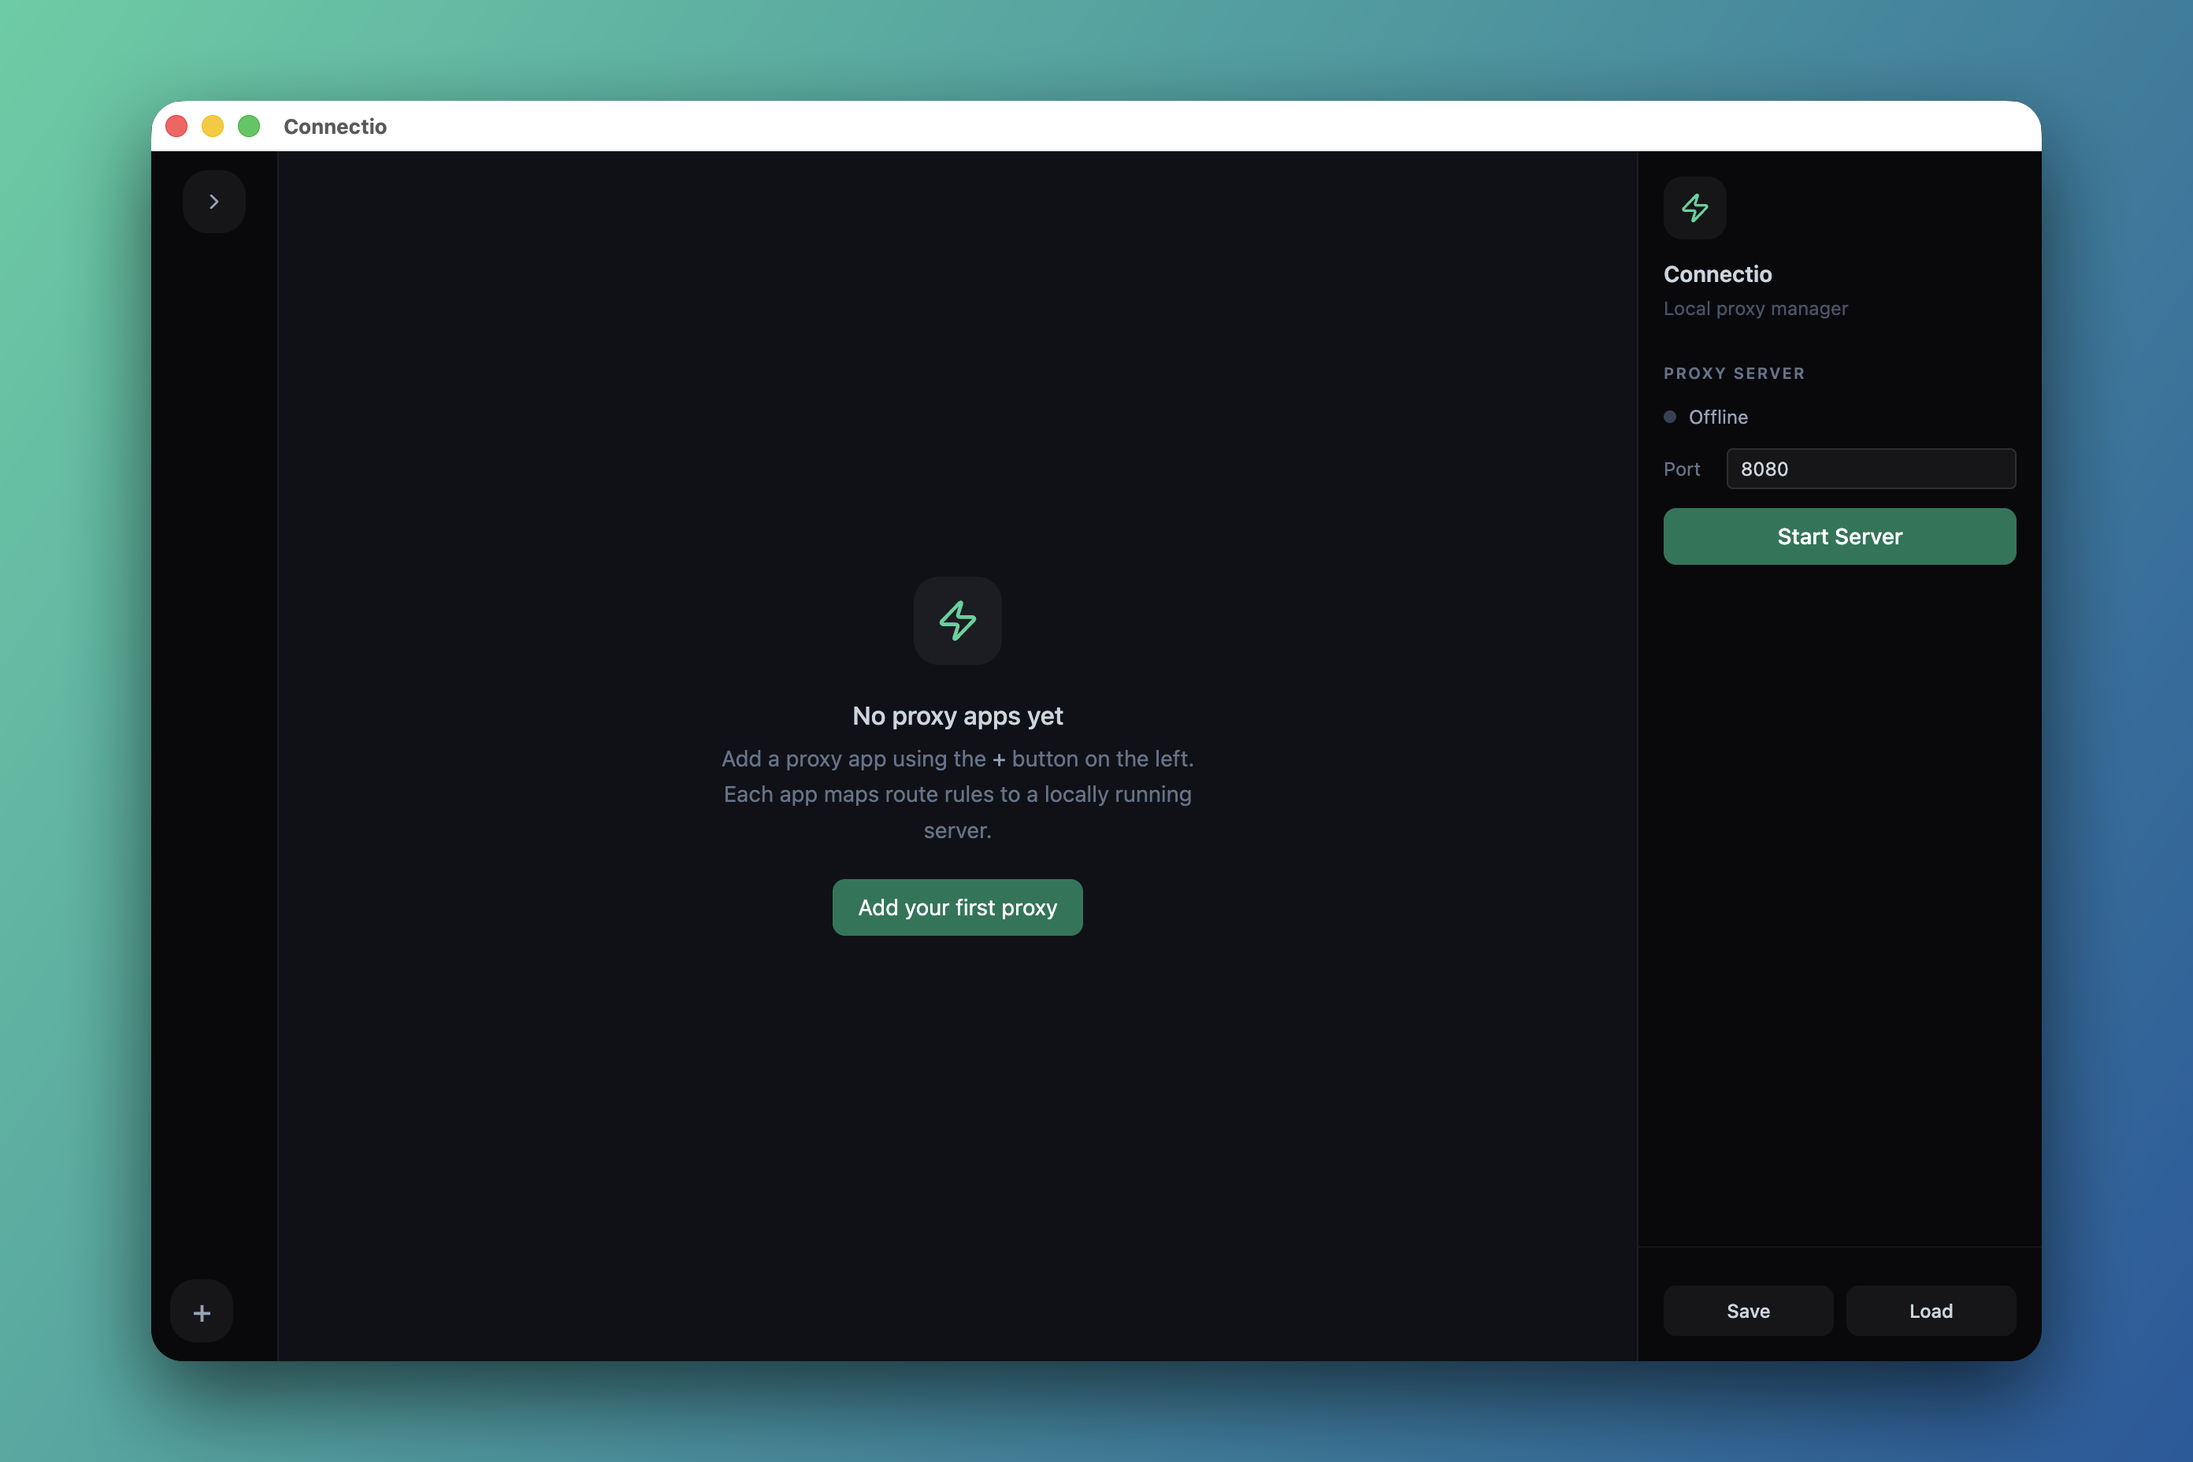
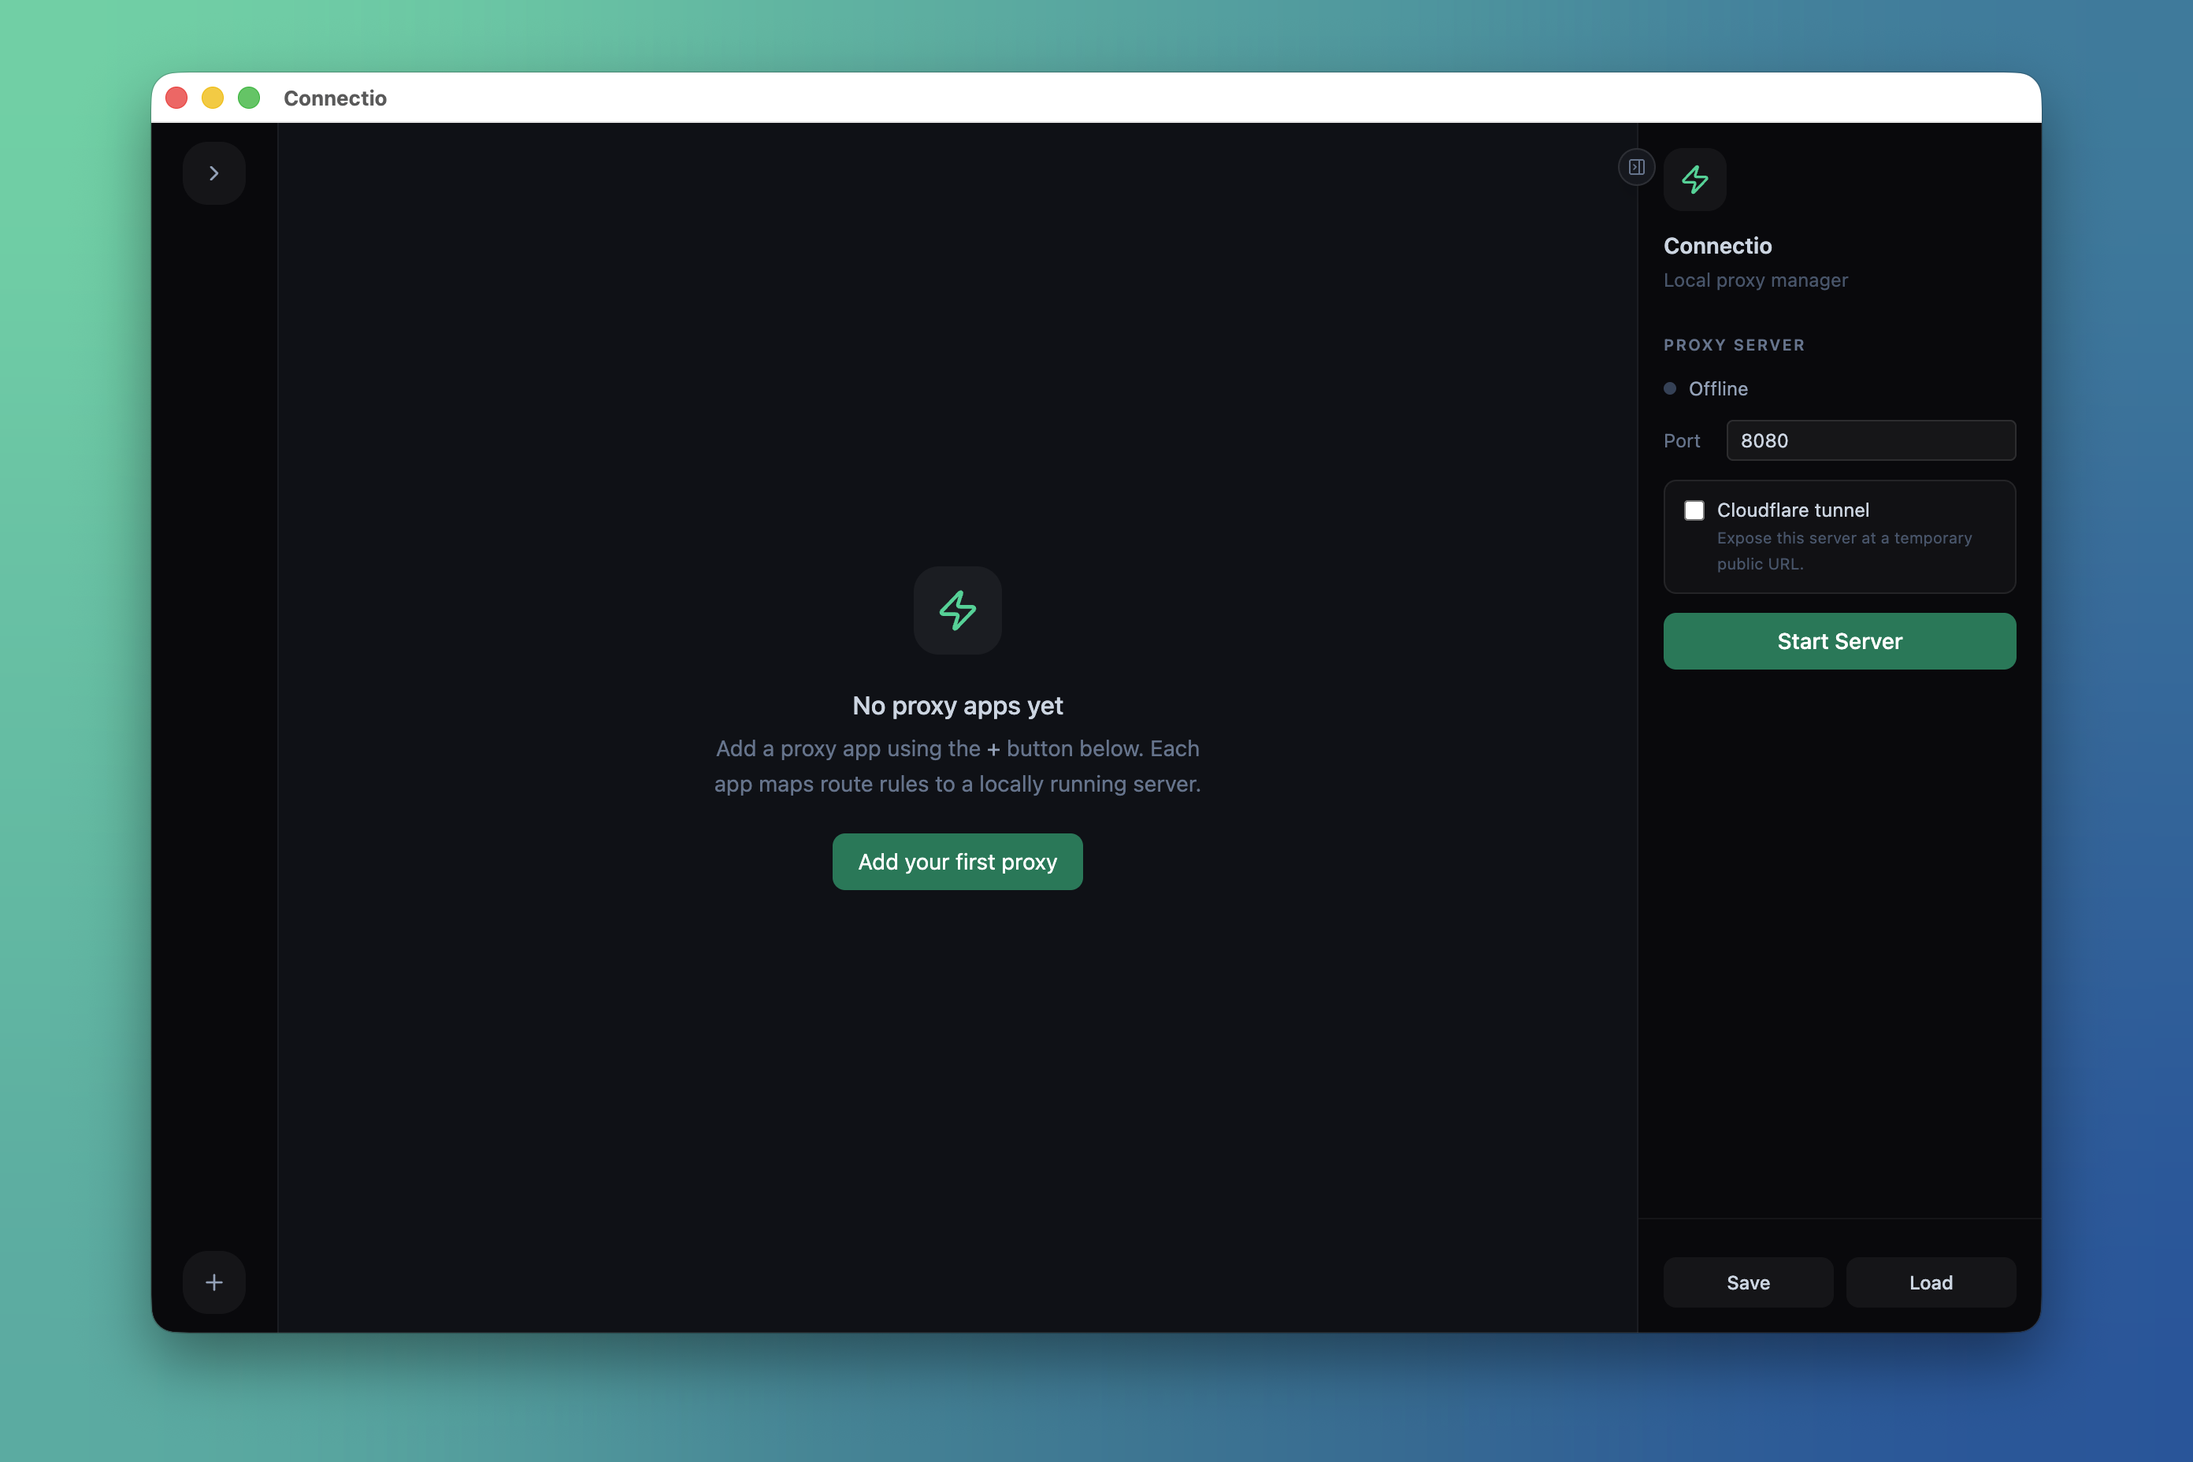
docs: polish README and refresh screenshots (#14)
* docs: add request details screenshot and refresh home screenshot

* docs: restructure README with download, why, and contributing sections

Add a hero screenshot, linked badges, a download table with unsigned
build notes, a tunnel security warning, and a contributing guide.
Collapse secondary screenshots, tech stack, and project structure, and
describe the release-please based release flow.

diff --git a/README.md b/README.md
@@ -9,46 +9,47 @@
 </p>
 
 <p align="center">
-  <img src="https://img.shields.io/github/v/release/PulkitBanta/connectio?style=flat-square" alt="Release" />
+  <a href="https://github.com/PulkitBanta/connectio/releases/latest"><img src="https://img.shields.io/github/v/release/PulkitBanta/connectio?style=flat-square" alt="Latest release" /></a>
+  <a href="https://github.com/PulkitBanta/connectio/actions/workflows/build.yml"><img src="https://img.shields.io/github/actions/workflow/status/PulkitBanta/connectio/build.yml?branch=main&style=flat-square&label=build" alt="Build status" /></a>
+  <a href="https://github.com/PulkitBanta/connectio/releases"><img src="https://img.shields.io/github/downloads/PulkitBanta/connectio/total?style=flat-square" alt="Downloads" /></a>
   <img src="https://img.shields.io/badge/platform-macOS%20%7C%20Windows%20%7C%20Linux-blue?style=flat-square" alt="Platform" />
-  <img src="https://img.shields.io/badge/license-MIT-green?style=flat-square" alt="License" />
+  <a href="LICENSE"><img src="https://img.shields.io/github/license/PulkitBanta/connectio?style=flat-square" alt="License" /></a>
 </p>
-
----
-
-## Screenshots
 
 <p align="center">
-  <img src="screenshots/connectio-home.png" alt="Home screen" width="800" />
+  <a href="#download">Download</a> ·
+  <a href="#features">Features</a> ·
+  <a href="#quick-start">Quick Start</a> ·
+  <a href="#contributing">Contributing</a>
 </p>
-<p align="center"><em>Home screen — clean starting point with server controls on the right sidebar</em></p>
 
 <p align="center">
-  <img src="screenshots/connectio-feature-highlights.png" alt="App and rule ordering" width="800" />
+  <img src="screenshots/connectio-request-details.png" alt="Connectio routing requests, showing request details and a Cloudflare tunnel URL" width="800" />
 </p>
-<p align="center"><em>Reorder apps and route rules to control matching priority</em></p>
 
-<p align="center">
-  <img src="screenshots/connectio-load-config.png" alt="Load config dialog" width="800" />
-</p>
-<p align="center"><em>Save and load named configurations to switch between project setups</em></p>
+## Why Connectio?
 
-<p align="center">
-  <img src="screenshots/connectio-configs-list.png" alt="Configs list view" width="800" />
-</p>
-<p align="center"><em>Browse, search, and manage all saved configs from a dedicated view — each card shows app count, route count, port, and last modified time</em></p>
+Modern local development rarely runs on a single server. Your frontend is on `:3000`, the API on `:3001`, an auth service on `:4000` — and suddenly you're fighting CORS, cookies that won't cross ports, and webhooks that need one public URL.
 
-<p align="center">
-  <img src="screenshots/connectio-share-menu.png" alt="Share config menu" width="800" />
-</p>
-<p align="center"><em>Export any config as JSON — copy to clipboard or save as a <code>.json</code> file</em></p>
+Connectio puts all of them behind **one local address**. Define path rules like `/api/*` → `localhost:3001` and `/*` → `localhost:3000`, hit **Start**, and every request is routed, logged, and inspectable — no nginx config to write, no reverse-proxy to restart. When you need to share it, flip on a temporary Cloudflare tunnel.
 
-<p align="center">
-  <img src="screenshots/connectio-paste-json.png" alt="Paste JSON import" width="800" />
-</p>
-<p align="center"><em>Import configs by pasting raw JSON — validates the shape before importing</em></p>
+## Download
 
----
+Grab the latest build from the [**Releases page**](https://github.com/PulkitBanta/connectio/releases/latest):
+
+| Platform              | File                                     |
+| --------------------- | ---------------------------------------- |
+| macOS (Apple Silicon) | `Connectio-<version>-arm64.dmg`          |
+| Windows               | `Connectio.Setup.<version>.exe`          |
+| Linux                 | `Connectio-<version>.AppImage` or `.deb` |
+
+> [!NOTE]
+> Builds are not code-signed yet.
+>
+> - **macOS:** if you see _"Connectio is damaged and can't be opened"_, move the app to `/Applications` and run `xattr -cr /Applications/Connectio.app`.
+> - **Windows:** SmartScreen may warn about an unknown publisher — click **More info → Run anyway**.
+
+Prefer building it yourself? See [Build from source](#build-from-source).
 
 ## Features
 
@@ -63,6 +64,39 @@
 - **Save & Load** — Quickly save the current state to a named config or load a previously saved one from the sidebar panel.
 - **Collapsible Sidebar** — Expand the left nav for full app names or collapse it to icon-only mode for more screen space.
 - **Cross-Platform** — Runs on macOS, Windows, and Linux. Configs are stored in the OS-native user data directory.
+
+<details>
+<summary><strong>More screenshots</strong></summary>
+<br />
+
+<table>
+  <tr>
+    <td width="50%"><img src="screenshots/connectio-home.png" alt="Home screen" /></td>
+    <td width="50%"><img src="screenshots/connectio-feature-highlights.png" alt="App and rule ordering" /></td>
+  </tr>
+  <tr>
+    <td align="center"><em>Home screen with server controls in the right sidebar</em></td>
+    <td align="center"><em>Reorder apps and route rules to control matching priority</em></td>
+  </tr>
+  <tr>
+    <td><img src="screenshots/connectio-load-config.png" alt="Load config dialog" /></td>
+    <td><img src="screenshots/connectio-configs-list.png" alt="Configs list view" /></td>
+  </tr>
+  <tr>
+    <td align="center"><em>Save and load named configurations</em></td>
+    <td align="center"><em>Browse, search, and manage saved configs</em></td>
+  </tr>
+  <tr>
+    <td><img src="screenshots/connectio-share-menu.png" alt="Share config menu" /></td>
+    <td><img src="screenshots/connectio-paste-json.png" alt="Paste JSON import" /></td>
+  </tr>
+  <tr>
+    <td align="center"><em>Export a config to the clipboard or a <code>.json</code> file</em></td>
+    <td align="center"><em>Import a config by pasting raw JSON</em></td>
+  </tr>
+</table>
+
+</details>
 
 ## How It Works
 
@@ -82,62 +116,21 @@ Browser / cURL                      Your local servers
                                  └─────────────────┘
 ```
 
-## Getting Started
+## Quick Start
 
-### Prerequisites
-
-- [Node.js](https://nodejs.org/) v22 or later
-- [Yarn](https://classic.yarnpkg.com/) v1
-- Optional: [`cloudflared`](https://developers.cloudflare.com/cloudflare-one/networks/connectors/cloudflare-tunnel/downloads/) on your `PATH` to use temporary public tunnels
-
-### Install & Run
-
-```bash
-git clone https://github.com/PulkitBanta/connectio.git
-cd connectio
-yarn install
-yarn start
-```
-
-### Quick Start
-
-1. Click **+ Add App** in the left sidebar.
+1. Click **+** in the left sidebar to add a proxy app.
 2. Give it a name (e.g. "API Server") and a target URL (e.g. `http://localhost:3001`).
 3. Click the app, then **+ Add Rule** to define a route pattern like `/api/*`.
 4. Set your port in the right sidebar and hit **Start Server**.
 5. Send requests to `http://localhost:8080` and watch them get routed and logged in real time.
+6. Click any request in **Recent Requests** to inspect its matched rule, target, and headers.
 
-To expose the proxy temporarily, enable **Cloudflare tunnel** before starting the server. Connectio runs a [Cloudflare Quick Tunnel](https://developers.cloudflare.com/cloudflare-one/networks/connectors/cloudflare-tunnel/do-more-with-tunnels/trycloudflare/), displays the generated public URL, and closes it when you stop the server. Quick Tunnels are intended for development and testing, not production.
+### Sharing with a Cloudflare tunnel
 
-## Build & Release
+Enable **Cloudflare tunnel** before starting the server. Connectio runs a [Cloudflare Quick Tunnel](https://developers.cloudflare.com/cloudflare-one/networks/connectors/cloudflare-tunnel/do-more-with-tunnels/trycloudflare/), shows the generated public URL (click to copy), and closes it when you stop the server. This requires [`cloudflared`](https://developers.cloudflare.com/cloudflare-one/networks/connectors/cloudflare-tunnel/downloads/) on your `PATH` (or set `CLOUDFLARED_PATH`).
 
-### Local Build
-
-```bash
-yarn build
-```
-
-Produces platform-specific distributables in the `dist/` directory:
-
-| Platform | Outputs             |
-| -------- | ------------------- |
-| macOS    | `.dmg`, `.zip`      |
-| Windows  | `.nsis`, `.zip`     |
-| Linux    | `.AppImage`, `.deb` |
-
-### CI / CD
-
-- **Build** — Every push to `main` and every PR triggers a [build workflow](.github/workflows/build.yml) that compiles for all three platforms.
-- **Release** — Trigger the [release workflow](.github/workflows/release.yml) manually via GitHub Actions, provide a version number, and it builds all platforms, generates a changelog, and creates a GitHub Release with artifacts attached.
-
-## Development
-
-```bash
-yarn dev       # Start with DevTools open
-yarn start     # Start without DevTools
-yarn lint       # Run ESLint
-yarn format     # Run Prettier
-```
+> [!WARNING]
+> A tunnel makes **every route** in your proxy reachable by anyone on the internet who has the URL — there is no authentication in front of it. Only enable it for servers you're comfortable exposing, and stop the server when you're done. Quick Tunnels are intended for development and testing, not production.
 
 ## Config Storage
 
@@ -149,50 +142,99 @@ Configs are saved as JSON files in the OS user data directory:
 | Windows | `%APPDATA%/connectio/configs/`                     |
 | Linux   | `~/.config/connectio/configs/`                     |
 
-Tunnel preference is stored with the rest of the config and defaults to off for existing files:
+A config looks like this (`cloudflareTunnel` is optional and defaults to off):
 
 ```json
 {
-  "apps": [],
+  "apps": [
+    {
+      "id": "api",
+      "name": "API Server",
+      "targetUrl": "http://localhost:3001",
+      "enabled": true,
+      "rules": [{ "id": "r1", "matchPath": "/api/*", "enabled": true }]
+    }
+  ],
   "port": 8080,
   "cloudflareTunnel": false
 }
 ```
 
-## Tech Stack
+## Contributing
+
+Contributions are welcome! Bug reports and feature ideas go in [Issues](https://github.com/PulkitBanta/connectio/issues); for code changes, open a pull request against `main`.
+
+### Build from source
+
+Requires [Node.js](https://nodejs.org/) v22+ and [Yarn](https://classic.yarnpkg.com/) v1.
+
+```bash
+git clone https://github.com/PulkitBanta/connectio.git
+cd connectio
+yarn install
+yarn dev        # Start with DevTools open
+```
+
+| Command       | What it does                                  |
+| ------------- | --------------------------------------------- |
+| `yarn dev`    | Start the app with hot reload and DevTools    |
+| `yarn start`  | Preview the production build without DevTools |
+| `yarn lint`   | Run ESLint                                    |
+| `yarn format` | Run Prettier                                  |
+| `yarn build`  | Build and package distributables into `dist/` |
+
+### Guidelines
+
+- Run `yarn lint` and `yarn format` before pushing.
+- Use [Conventional Commits](https://www.conventionalcommits.org/) (`feat:`, `fix:`, `docs:`, `chore:`, …) — release notes and version bumps are generated from them.
+- Keep PRs focused; include a screenshot for UI changes.
+
+### Build & Release
+
+- **Build** — Every push to `main` and every PR runs the [build workflow](.github/workflows/build.yml) on macOS, Windows, and Linux.
+- **Release** — [release-please](https://github.com/googleapis/release-please) watches `main` and keeps a release PR open with the next version and [changelog](CHANGELOG.md). Merging that PR tags the release, and the [release workflow](.github/workflows/release.yml) builds all three platforms and attaches the installers to the GitHub Release.
+
+<details>
+<summary><strong>Tech stack</strong></summary>
 
 - **Desktop Shell** — [Electron](https://www.electronjs.org/) with context isolation
 - **UI Framework** — [Solid.js](https://www.solidjs.com/) with TypeScript — signals-based reactivity for fast, predictable renders
 - **Styling** — [Tailwind CSS v4](https://tailwindcss.com/) via `@tailwindcss/vite` plugin
 - **Icons** — [Lucide](https://lucide.dev/) rendered as native Solid SVG components
 - **Build Tool** — [electron-vite](https://github.com/alex8088/electron-vite/) — fast HMR for main, preload, and renderer
-- **Packaging** — [electron-builder](https://www.electron.build/) — produces `.dmg`, `.AppImage`, `.deb`, `.nsis`
+- **Packaging** — [electron-builder](https://www.electron.build/) — produces `.dmg`, `.AppImage`, `.deb`, `.exe`
 - **Proxy Server** — [Express 5](https://expressjs.com/) — incoming request handling
 - **Proxying** — [http-proxy-middleware](https://github.com/chimurai/http-proxy-middleware) — route matching and reverse proxying
 - **Linting** — ESLint v10 with `typescript-eslint`
 - **Formatting** — Prettier
 
-## Project Structure
+</details>
+
+<details>
+<summary><strong>Project structure</strong></summary>
 
 ```
 src/
 ├── main/               # Electron main process
 │   ├── index.ts        # App lifecycle, window creation
-│   ├── server.ts       # Express proxy server, rule management, request logging
+│   ├── server.ts       # Proxy IPC handlers, request log + tunnel status forwarding
 │   ├── configs.ts      # Config CRUD — list, load, save, delete, rename, export, import
 │   └── ipc.ts          # Registers all IPC handlers
 ├── preload/
 │   └── index.ts        # Context bridge — exposes window.connectio to the renderer
-└── renderer/           # Solid.js UI
-    ├── index.html      # Shell HTML
-    ├── index.tsx       # Solid entry point
-    ├── App.tsx         # Root component — view router, layout
-    ├── components/     # 10 UI components (Nav, ProxyView, ConfigsView, etc.)
-    ├── lib/            # State (signals), IPC client, utilities, constants
-    └── styles/
-        └── index.css   # Tailwind entry
+├── renderer/           # Solid.js UI
+│   ├── index.html      # Shell HTML
+│   ├── index.tsx       # Solid entry point
+│   ├── App.tsx         # Root component — view router, layout
+│   ├── components/     # UI components (Nav, ProxyView, ConfigsView, etc.)
+│   ├── lib/            # State (signals), IPC client, utilities, constants
+│   └── styles/
+│       └── index.css   # Tailwind entry
+└── server.js           # Express proxy server, rule matching, Cloudflare tunnel process
 ```
+
+</details>
 
 ## License
 
-MIT
+[MIT](LICENSE) © Pulkit Banta
